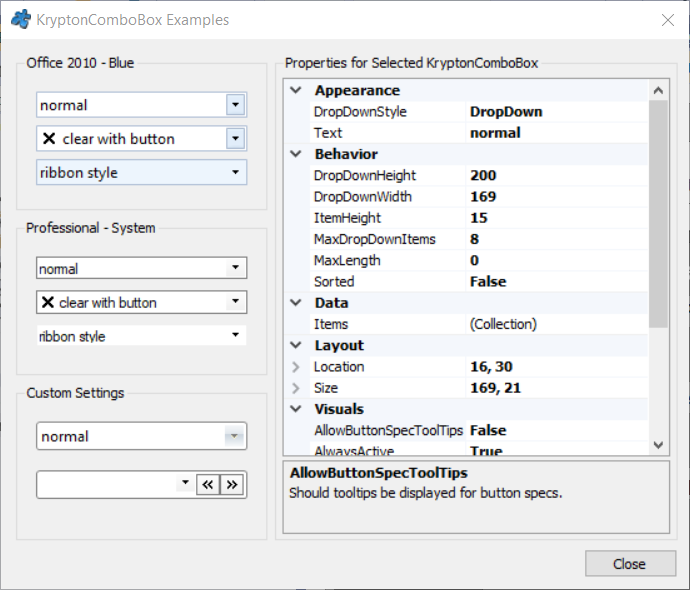
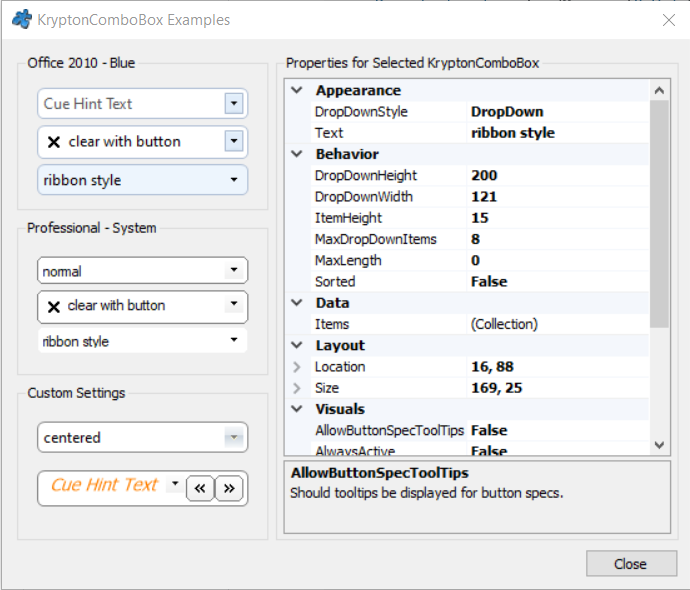
- Implement and test the ComboBox `Cue Hint` - Fought with the Text Edit control and lost

diff --git a/Source/Krypton Toolkit Examples/KryptonComboBox Examples/Form1.Designer.cs b/Source/Krypton Toolkit Examples/KryptonComboBox Examples/Form1.Designer.cs
@@ -84,9 +84,9 @@ namespace KryptonComboBoxExamples
             // 
             // propertyGrid
             // 
-            this.propertyGrid.Anchor = ((System.Windows.Forms.AnchorStyles)((((System.Windows.Forms.AnchorStyles.Top | System.Windows.Forms.AnchorStyles.Bottom)
-                        | System.Windows.Forms.AnchorStyles.Left)
-                        | System.Windows.Forms.AnchorStyles.Right)));
+            this.propertyGrid.Anchor = ((System.Windows.Forms.AnchorStyles)((((System.Windows.Forms.AnchorStyles.Top | System.Windows.Forms.AnchorStyles.Bottom) 
+            | System.Windows.Forms.AnchorStyles.Left) 
+            | System.Windows.Forms.AnchorStyles.Right)));
             this.propertyGrid.Location = new System.Drawing.Point(6, 19);
             this.propertyGrid.Name = "propertyGrid";
             this.propertyGrid.Size = new System.Drawing.Size(310, 365);
@@ -108,8 +108,10 @@ namespace KryptonComboBoxExamples
             // kryptonComboBox3Blue
             // 
             this.kryptonComboBox3Blue.AlwaysActive = false;
+            this.kryptonComboBox3Blue.DrawMode = System.Windows.Forms.DrawMode.OwnerDrawVariable;
             this.kryptonComboBox3Blue.DropDownWidth = 121;
             this.kryptonComboBox3Blue.InputControlStyle = Krypton.Toolkit.InputControlStyle.Ribbon;
+            this.kryptonComboBox3Blue.IntegralHeight = false;
             this.kryptonComboBox3Blue.Items.AddRange(new object[] {
             "one",
             "two",
@@ -117,11 +119,11 @@ namespace KryptonComboBoxExamples
             "four",
             "five",
             "six"});
-            this.kryptonComboBox3Blue.Location = new System.Drawing.Point(16, 84);
+            this.kryptonComboBox3Blue.Location = new System.Drawing.Point(16, 88);
             this.kryptonComboBox3Blue.Name = "kryptonComboBox3Blue";
             this.kryptonComboBox3Blue.PaletteMode = Krypton.Toolkit.PaletteMode.Office2010Blue;
-            this.kryptonComboBox3Blue.Size = new System.Drawing.Size(169, 21);
-            this.kryptonComboBox3Blue.TabIndex = 2;
+            this.kryptonComboBox3Blue.Size = new System.Drawing.Size(169, 29);
+            this.kryptonComboBox3Blue.TabIndex = 0;
             this.kryptonComboBox3Blue.Text = "ribbon style";
             this.kryptonComboBox3Blue.Enter += new System.EventHandler(this.kryptonComboBox1Blue_Enter);
             // 
@@ -129,7 +131,9 @@ namespace KryptonComboBoxExamples
             // 
             this.kryptonComboBox2Blue.ButtonSpecs.AddRange(new Krypton.Toolkit.ButtonSpecAny[] {
             this.buttonSpecAny1});
+            this.kryptonComboBox2Blue.DrawMode = System.Windows.Forms.DrawMode.OwnerDrawVariable;
             this.kryptonComboBox2Blue.DropDownWidth = 121;
+            this.kryptonComboBox2Blue.IntegralHeight = false;
             this.kryptonComboBox2Blue.Items.AddRange(new object[] {
             "one",
             "two",
@@ -140,7 +144,7 @@ namespace KryptonComboBoxExamples
             this.kryptonComboBox2Blue.Location = new System.Drawing.Point(16, 57);
             this.kryptonComboBox2Blue.Name = "kryptonComboBox2Blue";
             this.kryptonComboBox2Blue.PaletteMode = Krypton.Toolkit.PaletteMode.Office2010Blue;
-            this.kryptonComboBox2Blue.Size = new System.Drawing.Size(169, 21);
+            this.kryptonComboBox2Blue.Size = new System.Drawing.Size(169, 29);
             this.kryptonComboBox2Blue.TabIndex = 1;
             this.kryptonComboBox2Blue.Text = "clear with button";
             this.kryptonComboBox2Blue.Enter += new System.EventHandler(this.kryptonComboBox1Blue_Enter);
@@ -149,13 +153,20 @@ namespace KryptonComboBoxExamples
             // 
             this.buttonSpecAny1.Edge = Krypton.Toolkit.PaletteRelativeEdgeAlign.Near;
             this.buttonSpecAny1.Style = Krypton.Toolkit.PaletteButtonStyle.LowProfile;
+            this.buttonSpecAny1.ToolTipStyle = Krypton.Toolkit.LabelStyle.ToolTip;
             this.buttonSpecAny1.Type = Krypton.Toolkit.PaletteButtonSpecStyle.Close;
             this.buttonSpecAny1.UniqueName = "37524C52AC4E48FE37524C52AC4E48FE";
             this.buttonSpecAny1.Click += new System.EventHandler(this.buttonSpecAny1_Click);
             // 
             // kryptonComboBox1Blue
             // 
+            this.kryptonComboBox1Blue.CueHint.Color1 = System.Drawing.Color.FromArgb(((int)(((byte)(255)))), ((int)(((byte)(192)))), ((int)(((byte)(128)))));
+            this.kryptonComboBox1Blue.CueHint.CueHintText = "Cue Hint Text";
+            this.kryptonComboBox1Blue.CueHint.Font = new System.Drawing.Font("Tahoma", 10.2F, System.Drawing.FontStyle.Italic, System.Drawing.GraphicsUnit.Point, ((byte)(0)));
+            this.kryptonComboBox1Blue.CueHint.TextH = Krypton.Toolkit.PaletteRelativeAlign.Center;
+            this.kryptonComboBox1Blue.DrawMode = System.Windows.Forms.DrawMode.OwnerDrawVariable;
             this.kryptonComboBox1Blue.DropDownWidth = 169;
+            this.kryptonComboBox1Blue.IntegralHeight = false;
             this.kryptonComboBox1Blue.Items.AddRange(new object[] {
             "one",
             "two",
@@ -163,12 +174,11 @@ namespace KryptonComboBoxExamples
             "four",
             "five",
             "six"});
-            this.kryptonComboBox1Blue.Location = new System.Drawing.Point(16, 30);
+            this.kryptonComboBox1Blue.Location = new System.Drawing.Point(16, 27);
             this.kryptonComboBox1Blue.Name = "kryptonComboBox1Blue";
             this.kryptonComboBox1Blue.PaletteMode = Krypton.Toolkit.PaletteMode.Office2010Blue;
-            this.kryptonComboBox1Blue.Size = new System.Drawing.Size(169, 21);
+            this.kryptonComboBox1Blue.Size = new System.Drawing.Size(169, 29);
             this.kryptonComboBox1Blue.TabIndex = 0;
-            this.kryptonComboBox1Blue.Text = "normal";
             this.kryptonComboBox1Blue.Enter += new System.EventHandler(this.kryptonComboBox1Blue_Enter);
             // 
             // groupBox1
@@ -186,8 +196,10 @@ namespace KryptonComboBoxExamples
             // kryptonComboBox6System
             // 
             this.kryptonComboBox6System.AlwaysActive = false;
+            this.kryptonComboBox6System.DrawMode = System.Windows.Forms.DrawMode.OwnerDrawVariable;
             this.kryptonComboBox6System.DropDownWidth = 121;
             this.kryptonComboBox6System.InputControlStyle = Krypton.Toolkit.InputControlStyle.Ribbon;
+            this.kryptonComboBox6System.IntegralHeight = false;
             this.kryptonComboBox6System.Items.AddRange(new object[] {
             "one",
             "two",
@@ -195,10 +207,11 @@ namespace KryptonComboBoxExamples
             "four",
             "five",
             "six"});
-            this.kryptonComboBox6System.Location = new System.Drawing.Point(16, 84);
+            this.kryptonComboBox6System.Location = new System.Drawing.Point(16, 86);
             this.kryptonComboBox6System.Name = "kryptonComboBox6System";
             this.kryptonComboBox6System.PaletteMode = Krypton.Toolkit.PaletteMode.ProfessionalSystem;
-            this.kryptonComboBox6System.Size = new System.Drawing.Size(169, 21);
+            this.kryptonComboBox6System.Size = new System.Drawing.Size(169, 24);
+            this.kryptonComboBox6System.StateCommon.ComboBox.Content.TextH = Krypton.Toolkit.PaletteRelativeAlign.Near;
             this.kryptonComboBox6System.TabIndex = 2;
             this.kryptonComboBox6System.Text = "ribbon style";
             this.kryptonComboBox6System.Enter += new System.EventHandler(this.kryptonComboBox1Blue_Enter);
@@ -207,7 +220,9 @@ namespace KryptonComboBoxExamples
             // 
             this.kryptonComboBox5System.ButtonSpecs.AddRange(new Krypton.Toolkit.ButtonSpecAny[] {
             this.buttonSpecAny2});
+            this.kryptonComboBox5System.DrawMode = System.Windows.Forms.DrawMode.OwnerDrawVariable;
             this.kryptonComboBox5System.DropDownWidth = 121;
+            this.kryptonComboBox5System.IntegralHeight = false;
             this.kryptonComboBox5System.Items.AddRange(new object[] {
             "one",
             "two",
@@ -218,8 +233,9 @@ namespace KryptonComboBoxExamples
             this.kryptonComboBox5System.Location = new System.Drawing.Point(16, 57);
             this.kryptonComboBox5System.Name = "kryptonComboBox5System";
             this.kryptonComboBox5System.PaletteMode = Krypton.Toolkit.PaletteMode.ProfessionalSystem;
-            this.kryptonComboBox5System.Size = new System.Drawing.Size(169, 21);
-            this.kryptonComboBox5System.TabIndex = 1;
+            this.kryptonComboBox5System.Size = new System.Drawing.Size(169, 27);
+            this.kryptonComboBox5System.StateCommon.ComboBox.Content.TextH = Krypton.Toolkit.PaletteRelativeAlign.Near;
+            this.kryptonComboBox5System.TabIndex = 0;
             this.kryptonComboBox5System.Text = "clear with button";
             this.kryptonComboBox5System.Enter += new System.EventHandler(this.kryptonComboBox1Blue_Enter);
             // 
@@ -227,13 +243,16 @@ namespace KryptonComboBoxExamples
             // 
             this.buttonSpecAny2.Edge = Krypton.Toolkit.PaletteRelativeEdgeAlign.Near;
             this.buttonSpecAny2.Style = Krypton.Toolkit.PaletteButtonStyle.ButtonSpec;
+            this.buttonSpecAny2.ToolTipStyle = Krypton.Toolkit.LabelStyle.ToolTip;
             this.buttonSpecAny2.Type = Krypton.Toolkit.PaletteButtonSpecStyle.Close;
             this.buttonSpecAny2.UniqueName = "37524C52AC4E48FE37524C52AC4E48FE";
             this.buttonSpecAny2.Click += new System.EventHandler(this.buttonSpecAny2_Click);
             // 
             // kryptonComboBox4System
             // 
+            this.kryptonComboBox4System.DrawMode = System.Windows.Forms.DrawMode.OwnerDrawVariable;
             this.kryptonComboBox4System.DropDownWidth = 169;
+            this.kryptonComboBox4System.IntegralHeight = false;
             this.kryptonComboBox4System.Items.AddRange(new object[] {
             "one",
             "two",
@@ -244,7 +263,8 @@ namespace KryptonComboBoxExamples
             this.kryptonComboBox4System.Location = new System.Drawing.Point(16, 30);
             this.kryptonComboBox4System.Name = "kryptonComboBox4System";
             this.kryptonComboBox4System.PaletteMode = Krypton.Toolkit.PaletteMode.ProfessionalSystem;
-            this.kryptonComboBox4System.Size = new System.Drawing.Size(169, 21);
+            this.kryptonComboBox4System.Size = new System.Drawing.Size(169, 24);
+            this.kryptonComboBox4System.StateCommon.ComboBox.Content.TextH = Krypton.Toolkit.PaletteRelativeAlign.Near;
             this.kryptonComboBox4System.TabIndex = 0;
             this.kryptonComboBox4System.Text = "normal";
             this.kryptonComboBox4System.Enter += new System.EventHandler(this.kryptonComboBox1Blue_Enter);
@@ -265,8 +285,15 @@ namespace KryptonComboBoxExamples
             this.kryptonComboBox8Custom.ButtonSpecs.AddRange(new Krypton.Toolkit.ButtonSpecAny[] {
             this.buttonSpecAny3,
             this.buttonSpecAny4});
+            this.kryptonComboBox8Custom.CueHint.Color1 = System.Drawing.Color.FromArgb(((int)(((byte)(255)))), ((int)(((byte)(128)))), ((int)(((byte)(0)))));
+            this.kryptonComboBox8Custom.CueHint.CueHintText = "Cue Hint Text";
+            this.kryptonComboBox8Custom.CueHint.Font = new System.Drawing.Font("Tahoma", 10.2F, System.Drawing.FontStyle.Italic, System.Drawing.GraphicsUnit.Point, ((byte)(0)));
+            this.kryptonComboBox8Custom.CueHint.Padding = new System.Windows.Forms.Padding(0);
+            this.kryptonComboBox8Custom.CueHint.TextH = Krypton.Toolkit.PaletteRelativeAlign.Center;
+            this.kryptonComboBox8Custom.DrawMode = System.Windows.Forms.DrawMode.OwnerDrawVariable;
             this.kryptonComboBox8Custom.DropDownStyle = System.Windows.Forms.ComboBoxStyle.DropDownList;
             this.kryptonComboBox8Custom.DropDownWidth = 169;
+            this.kryptonComboBox8Custom.IntegralHeight = false;
             this.kryptonComboBox8Custom.Items.AddRange(new object[] {
             "one",
             "two",
@@ -277,18 +304,21 @@ namespace KryptonComboBoxExamples
             this.kryptonComboBox8Custom.Location = new System.Drawing.Point(16, 69);
             this.kryptonComboBox8Custom.Name = "kryptonComboBox8Custom";
             this.kryptonComboBox8Custom.PaletteMode = Krypton.Toolkit.PaletteMode.ProfessionalSystem;
-            this.kryptonComboBox8Custom.Size = new System.Drawing.Size(169, 23);
-            this.kryptonComboBox8Custom.StateCommon.ComboBox.Border.DrawBorders = ((Krypton.Toolkit.PaletteDrawBorders)((((Krypton.Toolkit.PaletteDrawBorders.Top | Krypton.Toolkit.PaletteDrawBorders.Bottom)
-                        | Krypton.Toolkit.PaletteDrawBorders.Left)
-                        | Krypton.Toolkit.PaletteDrawBorders.Right)));
+            this.kryptonComboBox8Custom.Size = new System.Drawing.Size(169, 29);
+            this.kryptonComboBox8Custom.StateCommon.ComboBox.Border.DrawBorders = ((Krypton.Toolkit.PaletteDrawBorders)((((Krypton.Toolkit.PaletteDrawBorders.Top | Krypton.Toolkit.PaletteDrawBorders.Bottom) 
+            | Krypton.Toolkit.PaletteDrawBorders.Left) 
+            | Krypton.Toolkit.PaletteDrawBorders.Right)));
             this.kryptonComboBox8Custom.StateCommon.ComboBox.Border.GraphicsHint = Krypton.Toolkit.PaletteGraphicsHint.AntiAlias;
+            this.kryptonComboBox8Custom.StateCommon.ComboBox.Border.ImageStyle = Krypton.Toolkit.PaletteImageStyle.Inherit;
             this.kryptonComboBox8Custom.StateCommon.ComboBox.Border.Rounding = 2;
-            this.kryptonComboBox8Custom.TabIndex = 1;
+            this.kryptonComboBox8Custom.StateCommon.ComboBox.Content.TextH = Krypton.Toolkit.PaletteRelativeAlign.Near;
+            this.kryptonComboBox8Custom.TabIndex = 0;
             this.kryptonComboBox8Custom.Enter += new System.EventHandler(this.kryptonComboBox1Blue_Enter);
             // 
             // buttonSpecAny3
             // 
             this.buttonSpecAny3.Style = Krypton.Toolkit.PaletteButtonStyle.Standalone;
+            this.buttonSpecAny3.ToolTipStyle = Krypton.Toolkit.LabelStyle.ToolTip;
             this.buttonSpecAny3.Type = Krypton.Toolkit.PaletteButtonSpecStyle.ArrowLeft;
             this.buttonSpecAny3.UniqueName = "43801810E6F9413243801810E6F94132";
             this.buttonSpecAny3.Click += new System.EventHandler(this.buttonSpecAny3_Click);
@@ -296,13 +326,16 @@ namespace KryptonComboBoxExamples
             // buttonSpecAny4
             // 
             this.buttonSpecAny4.Style = Krypton.Toolkit.PaletteButtonStyle.Standalone;
+            this.buttonSpecAny4.ToolTipStyle = Krypton.Toolkit.LabelStyle.ToolTip;
             this.buttonSpecAny4.Type = Krypton.Toolkit.PaletteButtonSpecStyle.ArrowRight;
             this.buttonSpecAny4.UniqueName = "0CDF070A67D6473D0CDF070A67D6473D";
             this.buttonSpecAny4.Click += new System.EventHandler(this.buttonSpecAny4_Click);
             // 
             // kryptonComboBox7Custom
             // 
+            this.kryptonComboBox7Custom.DrawMode = System.Windows.Forms.DrawMode.OwnerDrawVariable;
             this.kryptonComboBox7Custom.DropDownWidth = 169;
+            this.kryptonComboBox7Custom.IntegralHeight = false;
             this.kryptonComboBox7Custom.Items.AddRange(new object[] {
             "one",
             "two",
@@ -313,19 +346,21 @@ namespace KryptonComboBoxExamples
             this.kryptonComboBox7Custom.Location = new System.Drawing.Point(16, 30);
             this.kryptonComboBox7Custom.Name = "kryptonComboBox7Custom";
             this.kryptonComboBox7Custom.PaletteMode = Krypton.Toolkit.PaletteMode.Office2007Black;
-            this.kryptonComboBox7Custom.Size = new System.Drawing.Size(169, 23);
-            this.kryptonComboBox7Custom.StateCommon.ComboBox.Border.DrawBorders = ((Krypton.Toolkit.PaletteDrawBorders)((((Krypton.Toolkit.PaletteDrawBorders.Top | Krypton.Toolkit.PaletteDrawBorders.Bottom)
-                        | Krypton.Toolkit.PaletteDrawBorders.Left)
-                        | Krypton.Toolkit.PaletteDrawBorders.Right)));
+            this.kryptonComboBox7Custom.Size = new System.Drawing.Size(169, 29);
+            this.kryptonComboBox7Custom.StateCommon.ComboBox.Border.DrawBorders = ((Krypton.Toolkit.PaletteDrawBorders)((((Krypton.Toolkit.PaletteDrawBorders.Top | Krypton.Toolkit.PaletteDrawBorders.Bottom) 
+            | Krypton.Toolkit.PaletteDrawBorders.Left) 
+            | Krypton.Toolkit.PaletteDrawBorders.Right)));
             this.kryptonComboBox7Custom.StateCommon.ComboBox.Border.GraphicsHint = Krypton.Toolkit.PaletteGraphicsHint.AntiAlias;
+            this.kryptonComboBox7Custom.StateCommon.ComboBox.Border.ImageStyle = Krypton.Toolkit.PaletteImageStyle.Inherit;
             this.kryptonComboBox7Custom.StateCommon.ComboBox.Border.Rounding = 2;
+            this.kryptonComboBox7Custom.StateCommon.ComboBox.Content.TextH = Krypton.Toolkit.PaletteRelativeAlign.Center;
             this.kryptonComboBox7Custom.TabIndex = 0;
-            this.kryptonComboBox7Custom.Text = "normal";
+            this.kryptonComboBox7Custom.Text = "centered";
             this.kryptonComboBox7Custom.Enter += new System.EventHandler(this.kryptonComboBox1Blue_Enter);
             // 
             // Form1
             // 
-            this.AutoScaleDimensions = new System.Drawing.SizeF(6F, 13F);
+            this.AutoScaleDimensions = new System.Drawing.SizeF(8F, 17F);
             this.AutoScaleMode = System.Windows.Forms.AutoScaleMode.Font;
             this.ClientSize = new System.Drawing.Size(550, 440);
             this.Controls.Add(this.groupBox3);

diff --git a/Source/Krypton Toolkit Examples/KryptonComboBox Examples/Properties/AssemblyInfo.cs b/Source/Krypton Toolkit Examples/KryptonComboBox Examples/Properties/AssemblyInfo.cs
@@ -30,7 +30,6 @@ using System.Runtime.InteropServices;
 [assembly: StringFreezing]
 [assembly: ComVisible(false)]
 [assembly: CLSCompliant(true)]
-[assembly: AllowPartiallyTrustedCallers()]
 [assembly: Dependency("System", LoadHint.Always)]
 [assembly: Dependency("System.Drawing", LoadHint.Always)]
 [assembly: Dependency("System.Windows.Forms", LoadHint.Always)]

diff --git a/Source/Krypton Toolkit Examples/KryptonTextBox Examples/Properties/AssemblyInfo.cs b/Source/Krypton Toolkit Examples/KryptonTextBox Examples/Properties/AssemblyInfo.cs
@@ -30,7 +30,6 @@ using System.Runtime.InteropServices;
 [assembly: StringFreezing]
 [assembly: ComVisible(false)]
 [assembly: CLSCompliant(true)]
-[assembly: AllowPartiallyTrustedCallers()]
 [assembly: Dependency("System", LoadHint.Always)]
 [assembly: Dependency("System.Drawing", LoadHint.Always)]
 [assembly: Dependency("System.Windows.Forms", LoadHint.Always)]
